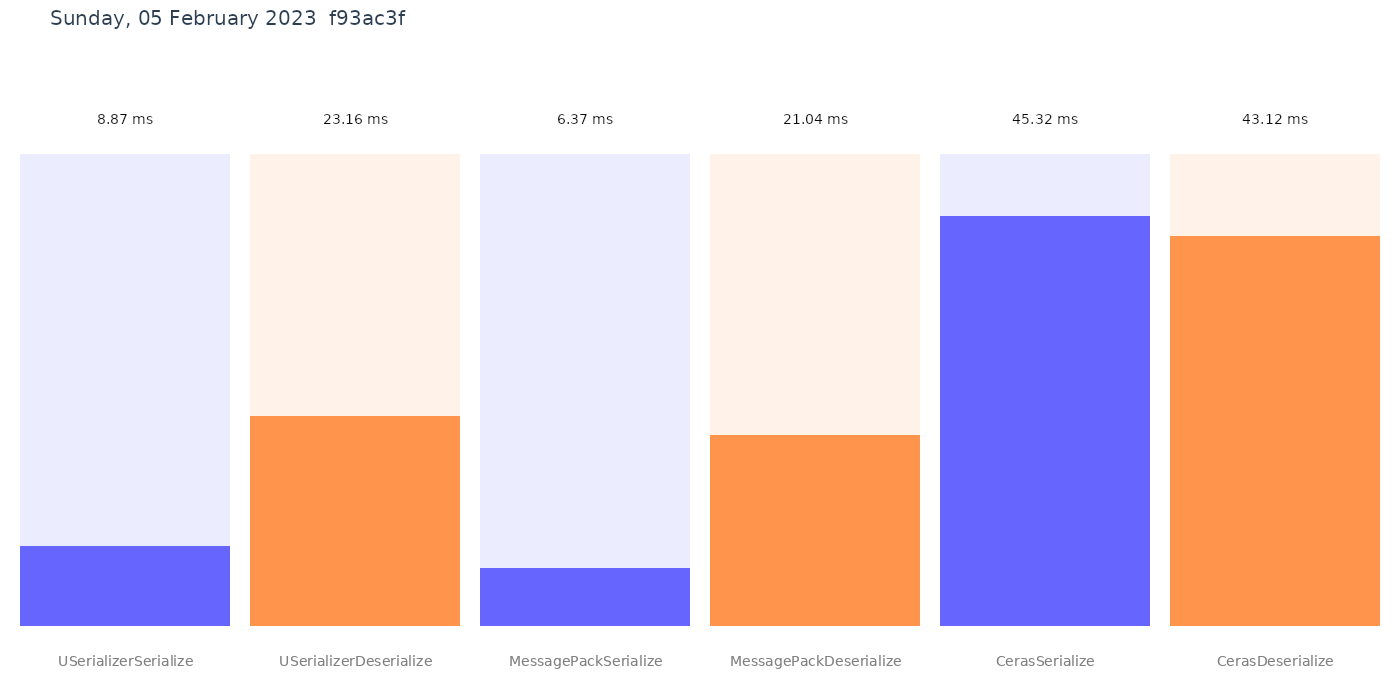
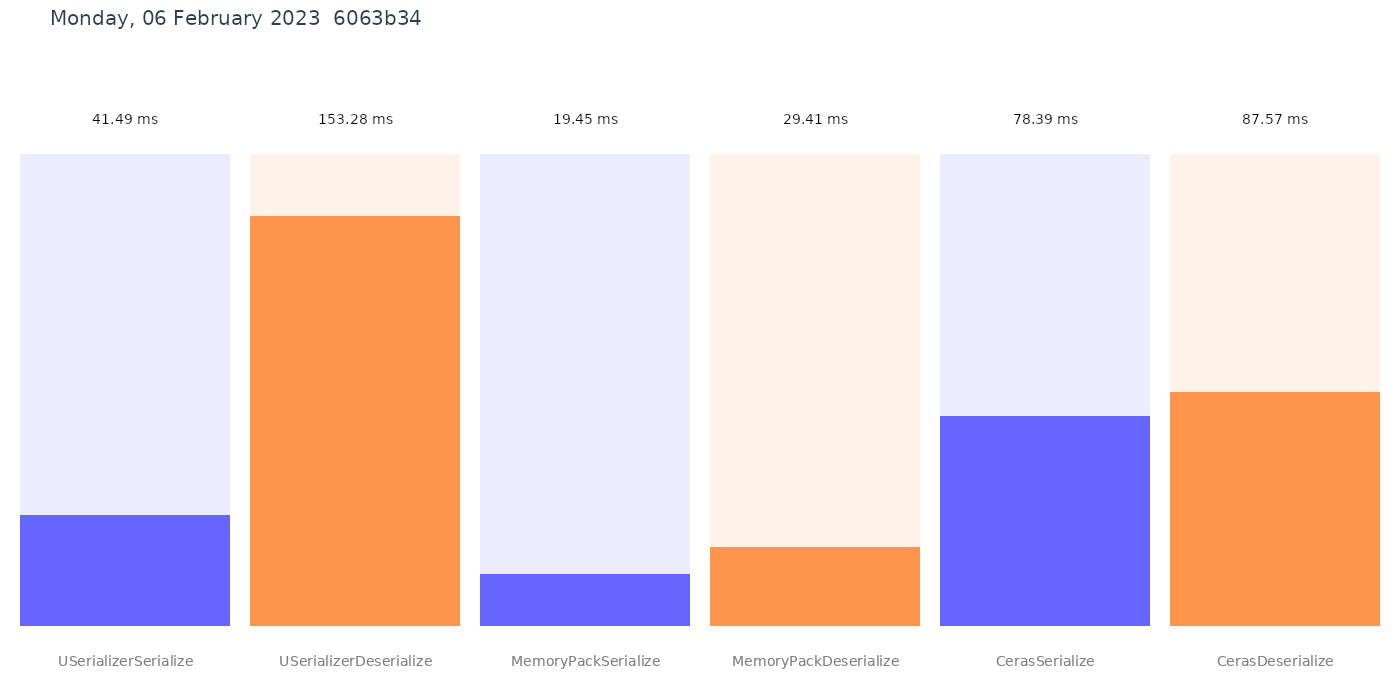
deploy: 6063b34d3856eedd7df4965e085d1e422272c427

diff --git a/performance.md b/performance.md
@@ -1,7 +1,7 @@
 ``` ini
 
 BenchmarkDotNet=v0.12.1, OS=ubuntu 22.04
-Intel Xeon Platinum 8370C CPU 2.80GHz, 1 CPU, 2 logical and 2 physical cores
+Intel Xeon Platinum 8272CL CPU 2.60GHz, 1 CPU, 2 logical and 2 physical cores
 .NET Core SDK=7.0.102
   [Host]   : .NET Core 7.0.2 (CoreCLR 7.0.222.60605, CoreFX 7.0.222.60605), X64 RyuJIT
   ShortRun : .NET Core 7.0.2 (CoreCLR 7.0.222.60605, CoreFX 7.0.222.60605), X64 RyuJIT
@@ -10,11 +10,11 @@ Job=ShortRun  IterationCount=3  LaunchCount=1
 WarmupCount=3  
 
 ```
-|                 Method |      Mean |     Error |    StdDev |
-|----------------------- |----------:|----------:|----------:|
-|   USerializerSerialize |  8.867 ms | 0.4631 ms | 0.0254 ms |
-| USerializerDeserialize | 23.159 ms | 0.5415 ms | 0.0297 ms |
-|   MessagePackSerialize |  6.371 ms | 0.0743 ms | 0.0041 ms |
-| MessagePackDeserialize | 21.043 ms | 6.2283 ms | 0.3414 ms |
-|         CerasSerialize | 45.322 ms | 4.8499 ms | 0.2658 ms |
-|       CerasDeserialize | 43.117 ms | 5.0959 ms | 0.2793 ms |
+|                 Method |      Mean |    Error |   StdDev |
+|----------------------- |----------:|---------:|---------:|
+|   USerializerSerialize |  41.49 ms | 2.061 ms | 0.113 ms |
+| USerializerDeserialize | 153.28 ms | 2.477 ms | 0.136 ms |
+|    MemoryPackSerialize |  19.45 ms | 0.691 ms | 0.038 ms |
+|  MemoryPackDeserialize |  29.41 ms | 5.074 ms | 0.278 ms |
+|         CerasSerialize |  78.39 ms | 4.023 ms | 0.221 ms |
+|       CerasDeserialize |  87.57 ms | 4.450 ms | 0.244 ms |
